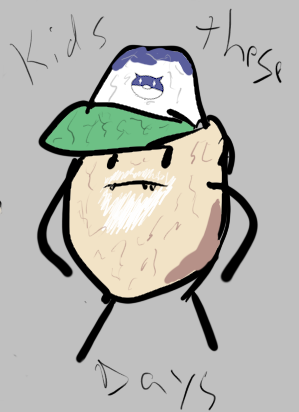
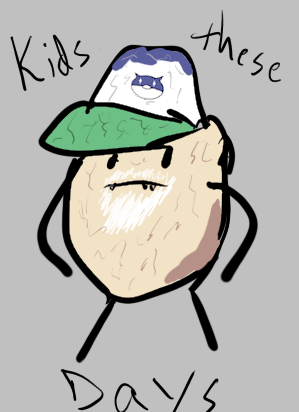
elders

diff --git a/mickedex/elder/oldmick.md b/mickedex/elder/oldmick.md
@@ -4,6 +4,11 @@ layout: default
 permalink: /mickedex/oldmick/
 ---
 
+<figure style="float: right; margin: 0 0 20px 20px; width: 260px;">
+  <img src="/assets/images/oldmick.png" alt="Oldmick" style="width: 100%; border-radius: 8px;">
+  <figcaption><strong>Oldmick</strong><br>The Grumpy Elder Mickémon</figcaption>
+</figure>
+
 # Oldmick
 
 **Type:** Normal / Rock  
@@ -16,7 +21,7 @@ permalink: /mickedex/oldmick/
 "The Grumpy Elder Mickémon. Oldmick evolves when it has grown wise enough to know four moves that are over 20 levels old. It believes modern battling is too flashy and loudly complains about it."
 
 ### Biology
-Oldmick is an elderly Mickus with deep wrinkles, a full white mustache and beard, and a thinning but still stubborn mullet. It wears tiny round reading glasses that constantly slide down its nose and carries a gnarled wooden cane, which it uses both for walking and for emphatic whacking. It spends most of its time sitting in a tiny rocking chair, muttering about "kids these days" and how battles were better back when everyone only knew Tackle and Growl.Despite its constant grumbling, Oldmick is surprisingly wise and will give genuinely good advice… if you can survive the three-hour lecture that comes with it.
+Oldmick is an elderly Mickus with deep wrinkles, a full white mustache and beard, and a thinning but still stubborn mullet. It wears tiny round reading glasses that constantly slide down its nose and carries a gnarled wooden cane, which it uses both for walking and for emphatic whacking. It spends most of its time sitting in a tiny rocking chair, muttering about "kids these days" and how battles were better back when everyone only knew Tackle and Growl. Despite its constant grumbling, Oldmick is surprisingly wise and will give genuinely good advice… if you can survive the three-hour lecture that comes with it.
 
 ### Evolution
 Mickus evolves into Oldmick when it levels up while knowing 4 moves that it learned 20 or more levels ago.  Evolves into Realoldmick if it levels while holding an Everstone.

diff --git a/mickedex/elder/realoldmick.md b/mickedex/elder/realoldmick.md
@@ -4,6 +4,11 @@ layout: default
 permalink: /mickedex/realoldmick/
 ---
 
+<figure style="float: right; margin: 0 0 20px 20px; width: 260px;">
+  <img src="/assets/images/readoldmick.png" alt="Real Old Mick" style="width: 100%; border-radius: 8px;">
+  <figcaption><strong>Real Old Mick</strong><br>The True Elder Mickémon</figcaption>
+</figure>
+
 # Realoldmick
 
 **Type:** Normal / Rock  
@@ -25,3 +30,6 @@ Evolves from Oldmick when it levels while holding an Everstone.
 
 **Previous Evolution:** Oldmick (Everstone)  
 **Next Evolution(s):** Deadmick (Fainting)
+
+### Gallery
+![Real Old Mick](/assets/images/realoldmick.png){:width="30%" style="display: block; margin: 20px auto; border: 1px solid #ddd; border-radius: 8px;"}

diff --git a/mickedex/elder/deadmick.md b/mickedex/elder/deadmick.md
@@ -4,6 +4,11 @@ layout: default
 permalink: /mickedex/deadmick/
 ---
 
+<figure style="float: right; margin: 0 0 20px 20px; width: 260px;">
+  <img src="/assets/images/deadmick.png" alt="Deadmick" style="width: 100%; border-radius: 8px;">
+  <figcaption><strong>Deadmick</strong><br>The Deceased Elder Mickémon</figcaption>
+</figure>
+
 # Deadmick
 
 **Type:** Normal / Ghost  
@@ -22,3 +27,6 @@ Evolves when Realoldmick Faints in battle.
 
 **Previous Evolution:** Realoldmick (Faint)  
 **Next Evolution(s):** -
+
+### Gallery
+![Deadmick](/assets/images/deadmick.png){:width="30%" style="display: block; margin: 20px auto; border: 1px solid #ddd; border-radius: 8px;"}
